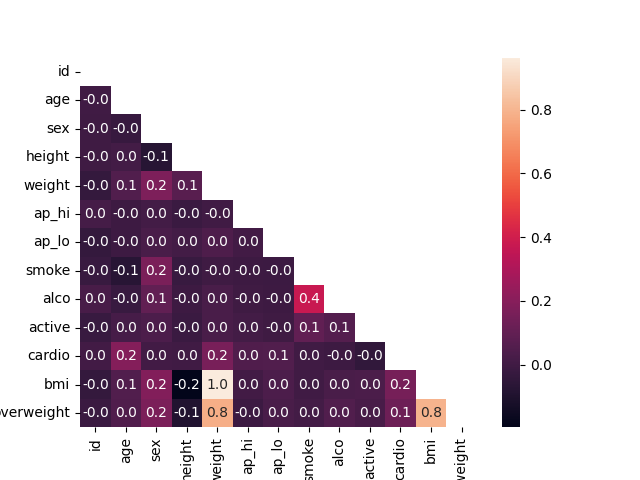
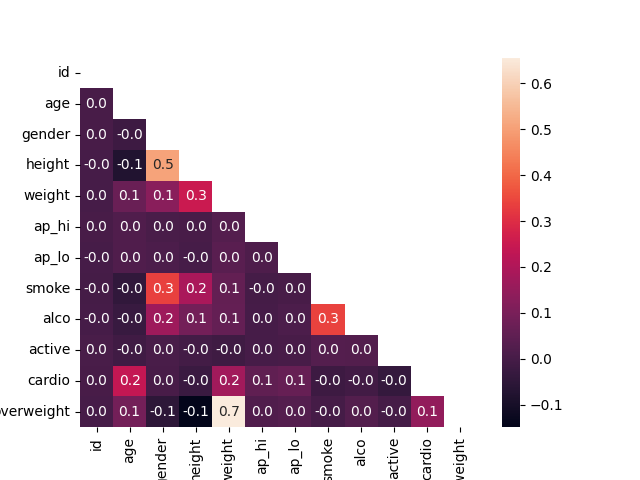
updates

diff --git a/medical_data_visualizer.py b/medical_data_visualizer.py
@@ -69,9 +69,11 @@ def draw_cat_plot():
 def draw_heat_map():
     # Clean the data
     df_heat = df[(df['height']>=df['height'].quantile(0.025)) & 
-                (df['height']>=df['height'].quantile(0.975)) &
+                (df['height']<=df['height'].quantile(0.975)) &
                 (df['weight']>=df['weight'].quantile(0.025)) &
                 (df['weight']<=df['weight'].quantile(0.975))].reset_index(drop=True)
+    df_heat.rename(columns={'sex':'gender'}, inplace=True)
+    df_heat = df_heat.drop('bmi', axis=1)
 
     """df_heat = df[(df['height']>=df['height'].quantile(0.025))]
     df_heat = df_heat[(df_heat['height']>=df_heat['height'].quantile(0.975))]
